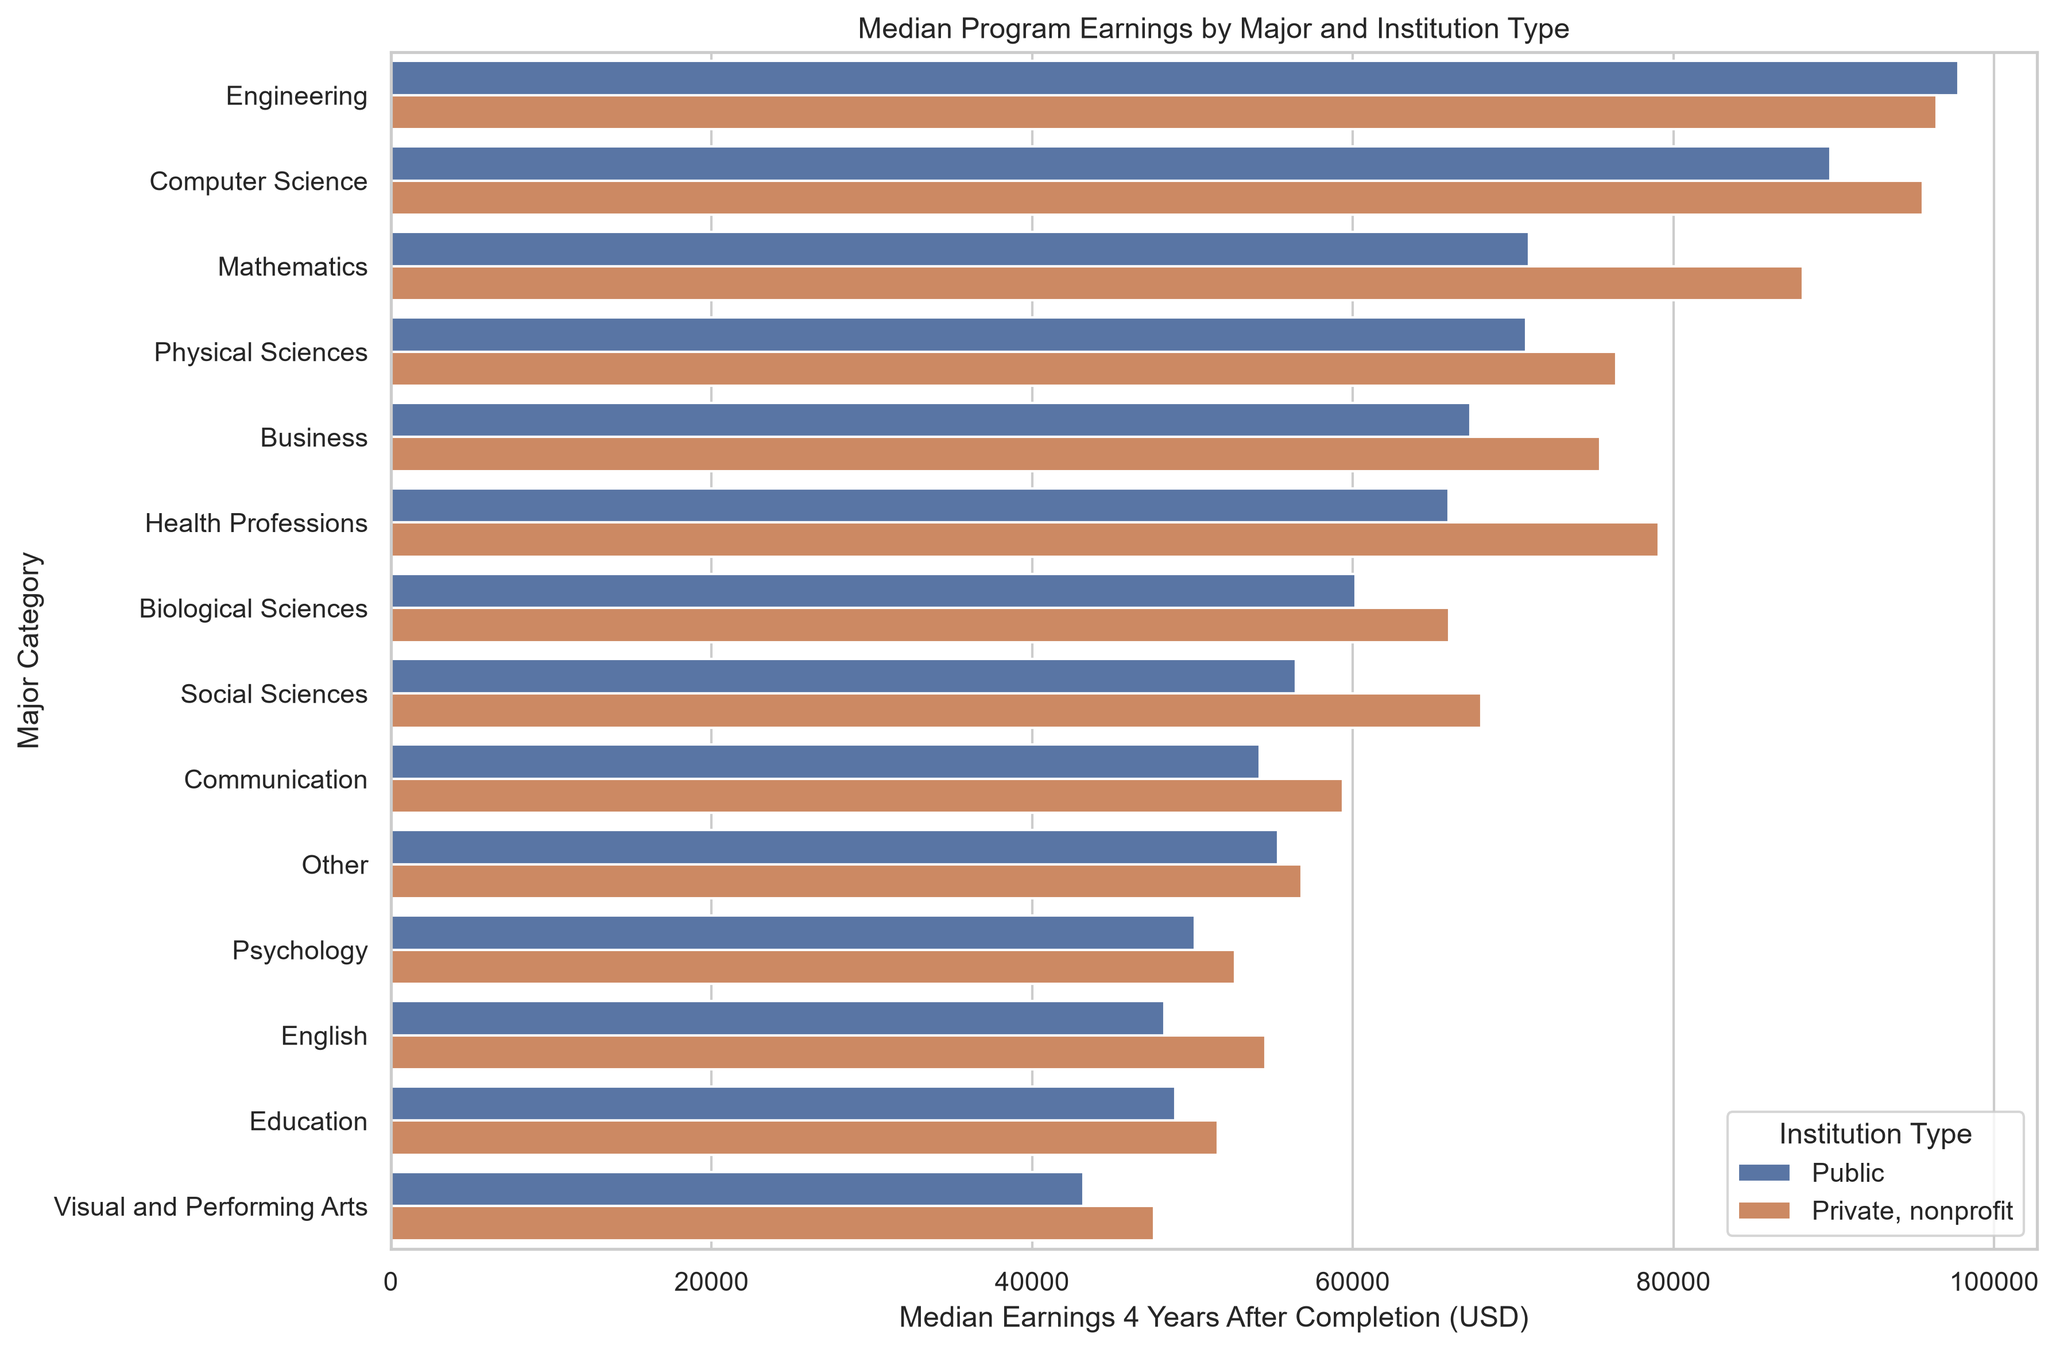
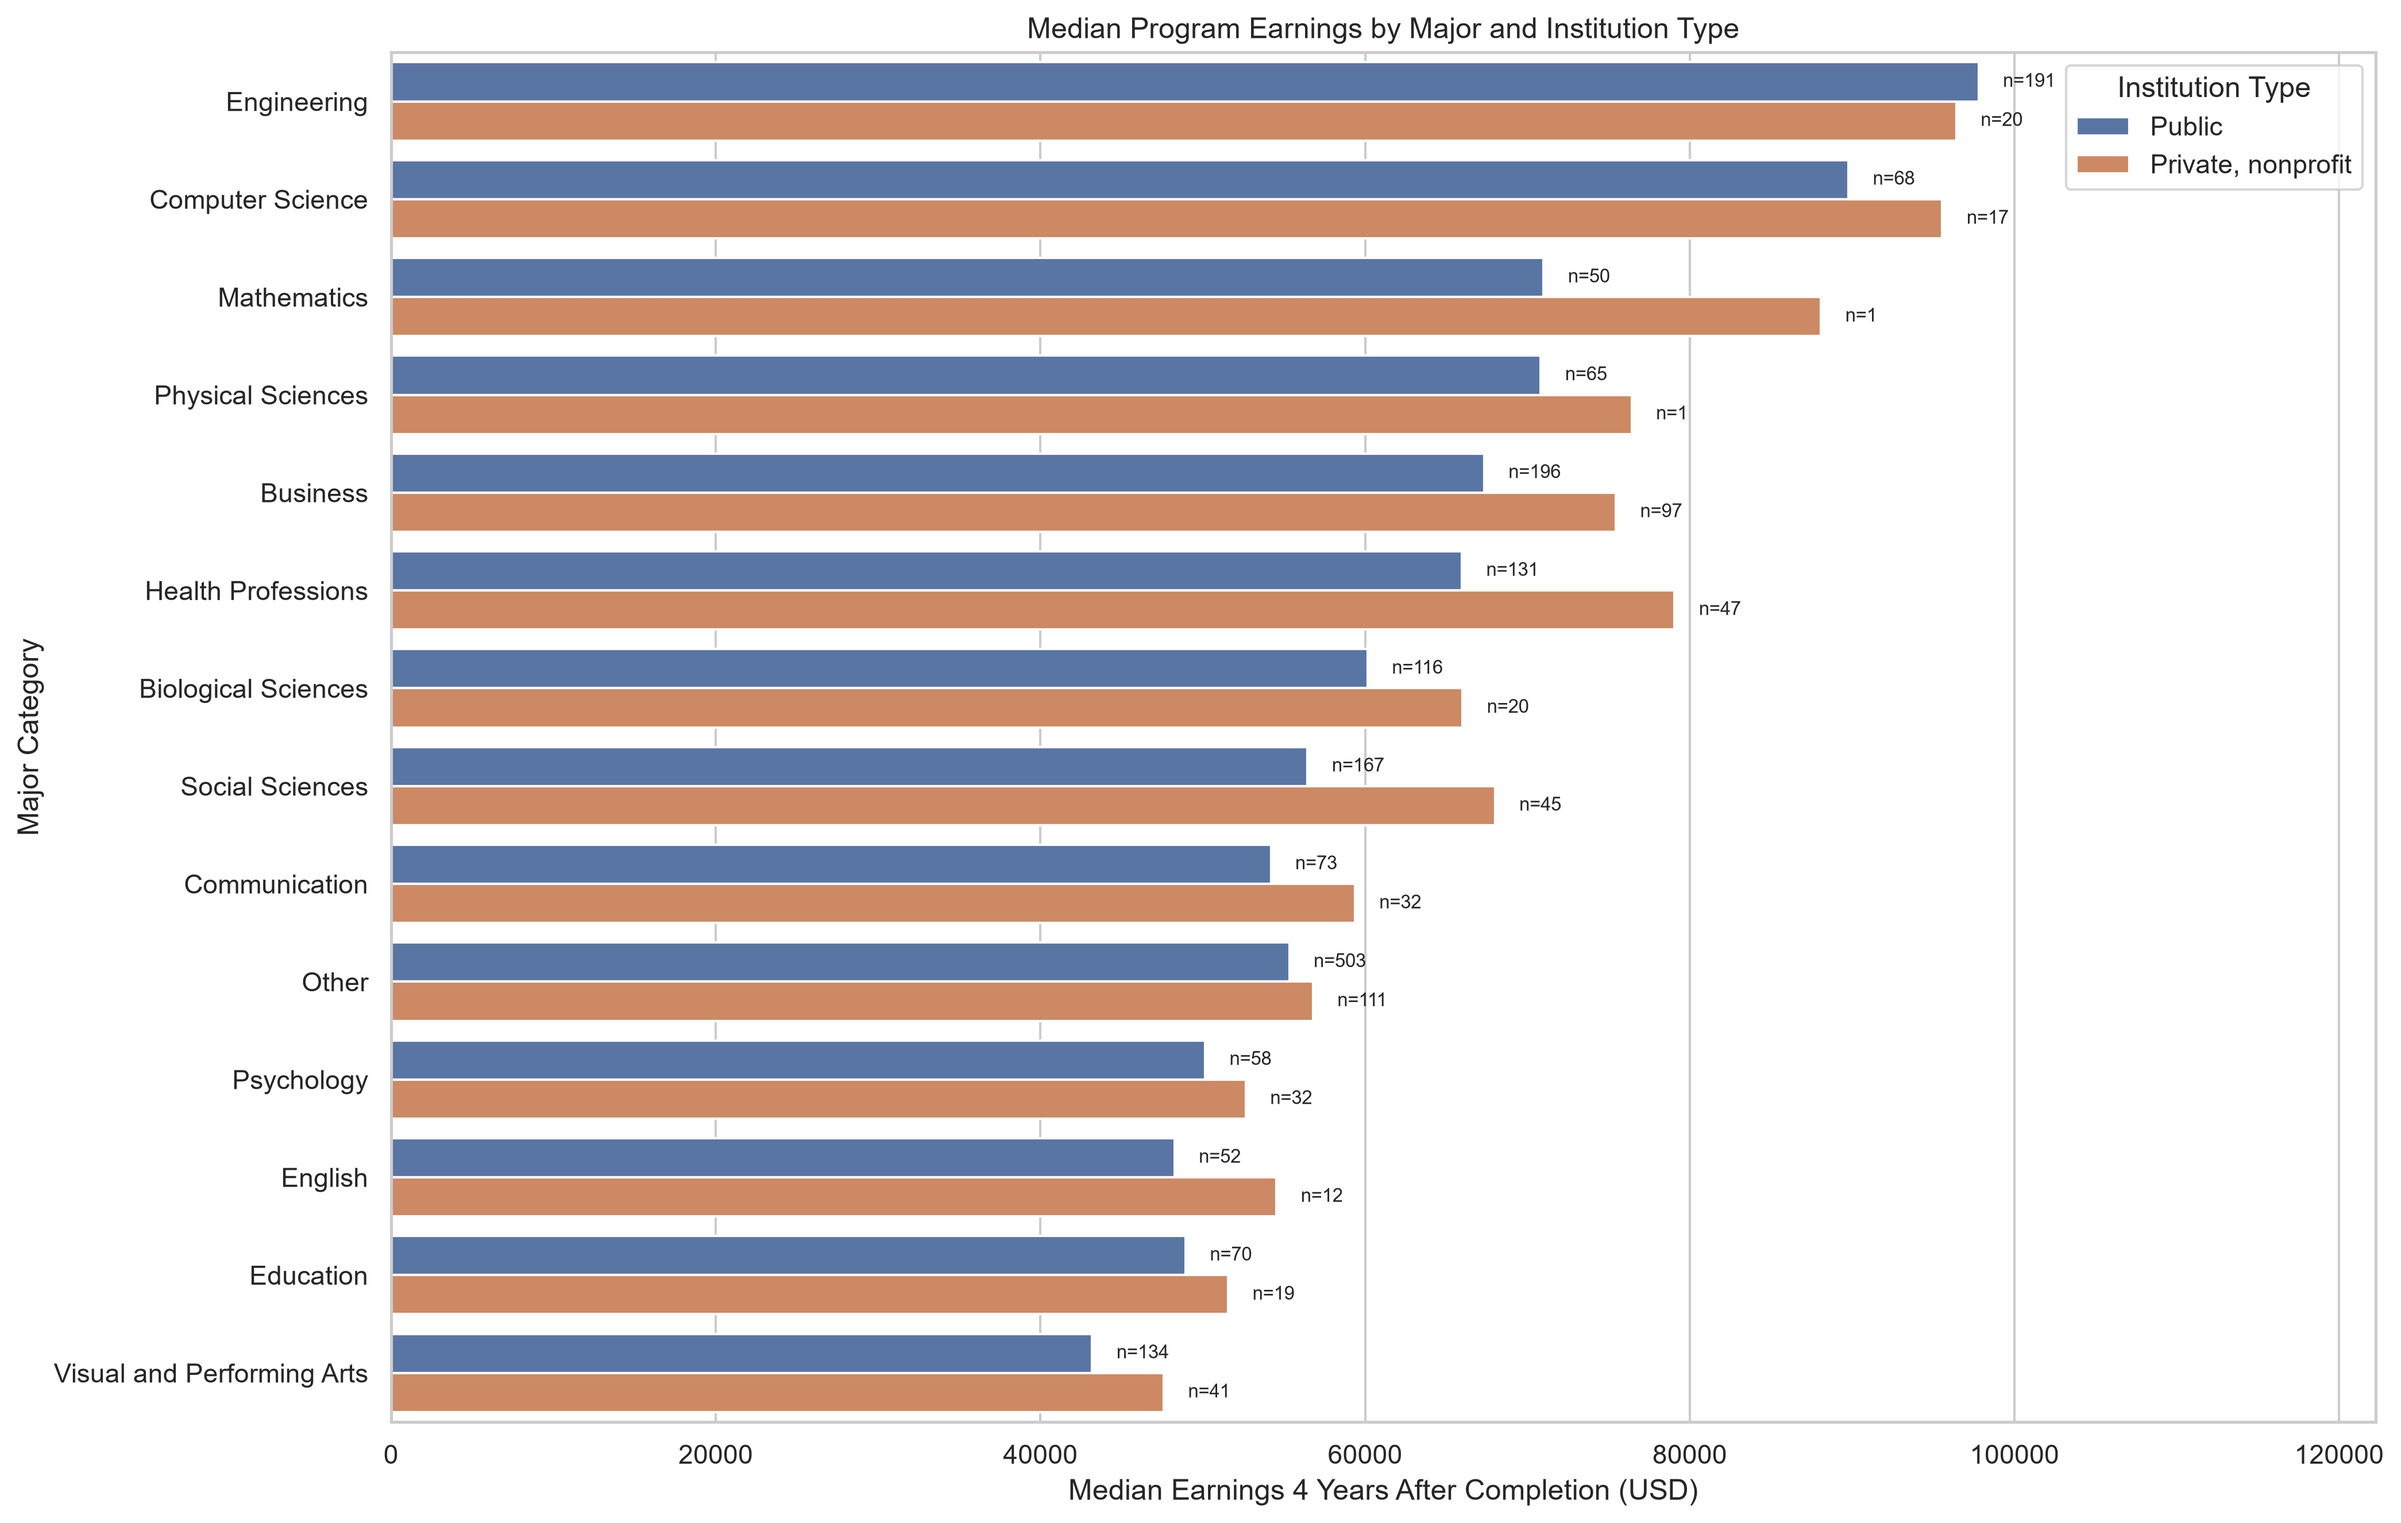
Revise data acquisition blog based on peer feedback

Changed region(s): [[0.031, 0.0, 0.9919, 0.9932], [0.0, 0.4035, 0.031, 0.5587]]

diff --git a/scripts/eda.py b/scripts/eda.py
@@ -5,12 +5,17 @@ import pandas as pd
 import matplotlib.pyplot as plt
 import seaborn as sns
 
-# Load cleaned dataset
+
+# ------------------------------------
+# 0. Load cleaned dataset
+# ------------------------------------
+
 df = pd.read_csv("data/college_earnings_clean.csv")
 
 Path("figures").mkdir(exist_ok=True)
 
 sns.set_theme(style="whitegrid")
+
 
 # ------------------------------------
 # 1. Earnings by major category
@@ -46,7 +51,9 @@ plt.savefig(
     dpi=300,
     bbox_inches="tight"
 )
+
 plt.close()
+
 
 # ------------------------------------
 # 2. Public vs. Private Universities
@@ -79,7 +86,9 @@ plt.savefig(
     dpi=300,
     bbox_inches="tight"
 )
+
 plt.close()
+
 
 # ------------------------------------
 # 3. Earnings variation across majors
@@ -105,11 +114,10 @@ plt.savefig(
     dpi=300,
     bbox_inches="tight"
 )
+
 plt.close()
 
-print("\nEDA complete!")
-print("Three figures saved to figures/")
-
+print("\nFirst three figures saved!")
 
 
 # ------------------------------------
@@ -126,58 +134,100 @@ comparison = (
 print("\nEARNINGS BY MAJOR AND INSTITUTION TYPE")
 print(comparison.to_string(index=False))
 
-# Use consistent category and institution ordering
-major_order = major_summary.index.tolist()
-type_order = sorted(df["institution_type"].dropna().unique())
 
-# Create grouped horizontal bar chart
+# Define category and institution order
+major_order = major_summary.index.tolist()
+
+type_order = [
+    "Public",
+    "Private, nonprofit"
+]
+
+
+# Create grouped bar chart
 fig, ax = plt.subplots(figsize=(14, 9))
 
 sns.barplot(
-    data=df,
-    x="median_earnings_4yr",
+    data=comparison,
+    x="median",
     y="major_category",
     hue="institution_type",
-    estimator="median",
-    errorbar=None,
     order=major_order,
     hue_order=type_order,
+    errorbar=None,
     ax=ax
 )
 
-# Add sample size labels (n) to each bar
-for container, institution_type in zip(ax.containers, type_order):
 
-    counts = (
-        comparison[comparison["institution_type"] == institution_type]
-        .set_index("major_category")["count"]
-        .reindex(major_order)
-    )
+# ------------------------------------
+# Add sample sizes to each bar
+# ------------------------------------
 
-    labels = [
-        f"n={int(n)}" if pd.notna(n) and n > 0 else ""
-        for n in counts
-    ]
+counts = comparison.set_index(
+    ["major_category", "institution_type"]
+)["count"]
 
-    ax.bar_label(
-        container,
-        labels=labels,
-        label_type="edge",
-        padding=3,
-        fontsize=8
-    )
+for container, institution_type in zip(
+    ax.containers, type_order
+):
+    for major, bar in zip(
+        major_order, container.patches
+    ):
 
-# Add extra space for labels
-ax.set_xlim(0, df["median_earnings_4yr"].max() * 1.15)
+        n = counts.get(
+            (major, institution_type), 0
+        )
+
+        if n == 0:
+            continue
+
+        width = bar.get_width()
+
+        y = (
+            bar.get_y()
+            + bar.get_height() / 2
+        )
+
+        ax.text(
+            width + 1500,
+            y,
+            f"n={int(n)}",
+            va="center",
+            ha="left",
+            fontsize=8
+        )
+
+
+# ------------------------------------
+# Customize chart
+# ------------------------------------
 
 ax.set_title(
     "Median Program Earnings by Major and Institution Type"
 )
-ax.set_xlabel("Median Earnings 4 Years After Completion (USD)")
+
+ax.set_xlabel(
+    "Median Earnings 4 Years After Completion (USD)"
+)
+
 ax.set_ylabel("Major Category")
-ax.legend(title="Institution Type")
+
+ax.legend(
+    title="Institution Type"
+)
+
+# Add space for sample-size labels
+ax.set_xlim(
+    0,
+    comparison["median"].max() * 1.25
+)
 
 plt.tight_layout()
+
+
+# ------------------------------------
+# Save chart
+# ------------------------------------
 
 plt.savefig(
     "figures/earnings_by_major_and_type.png",
@@ -188,3 +238,4 @@ plt.savefig(
 plt.close()
 
 print("\nFourth figure saved with sample sizes!")
+print("\nEDA complete! Four figures saved to figures/")
